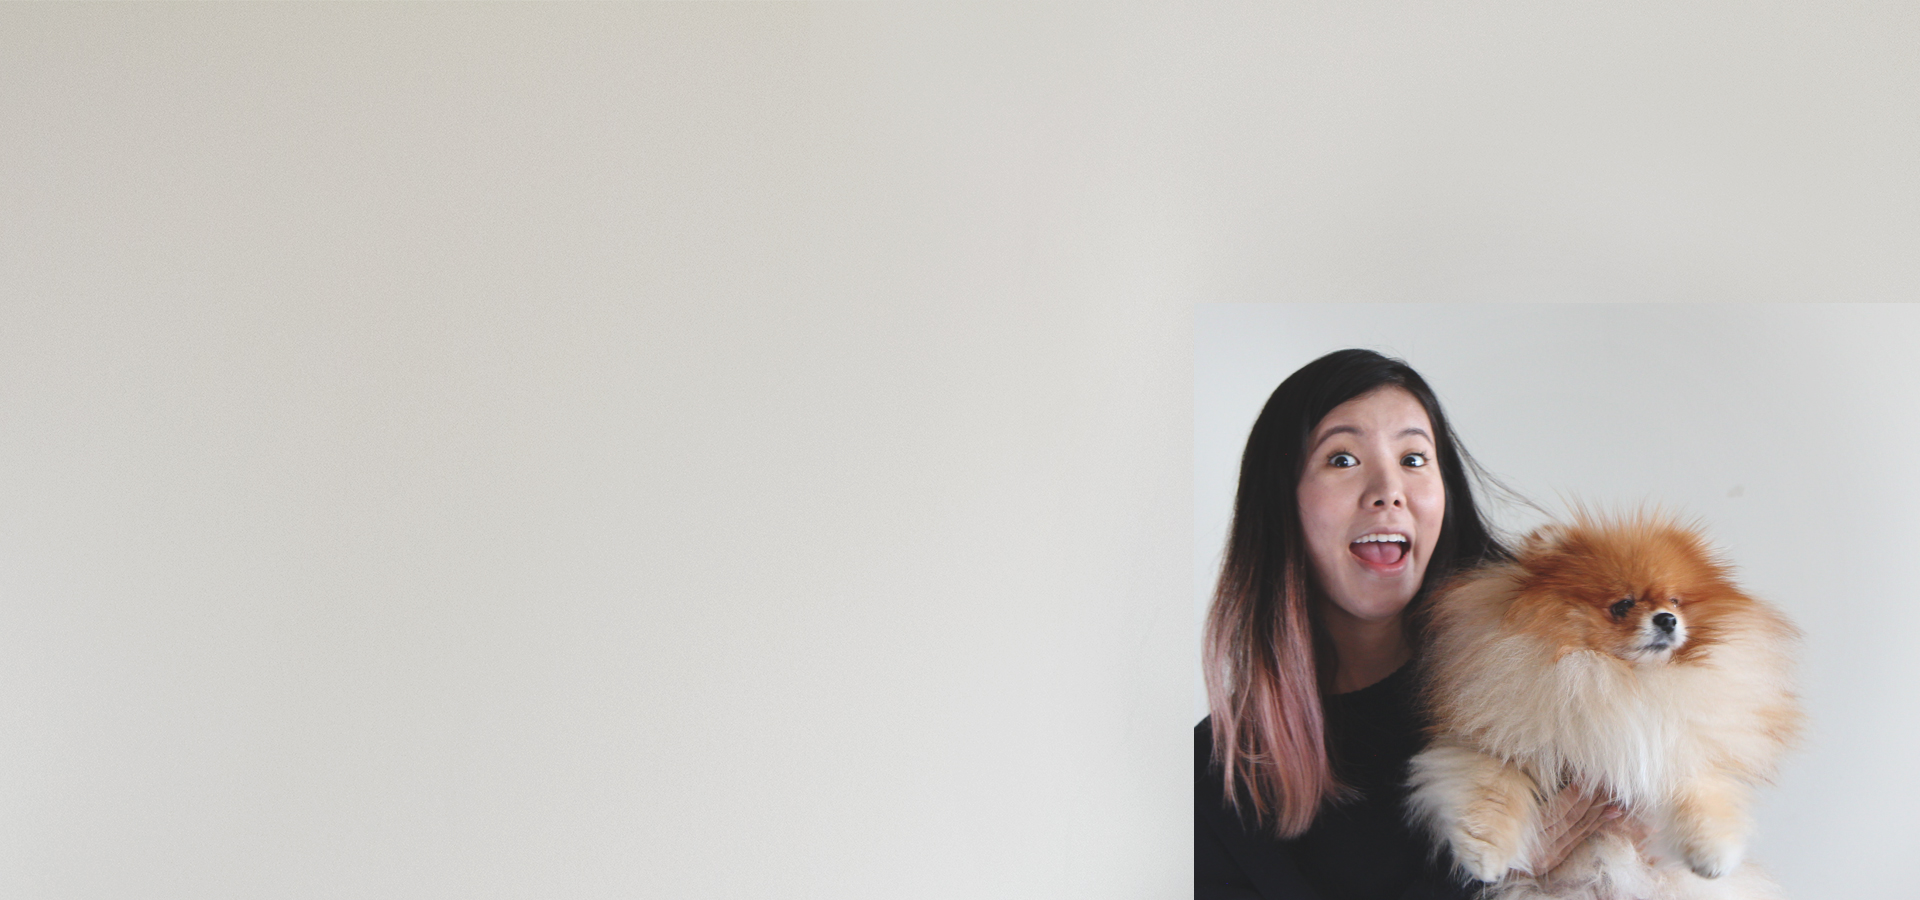
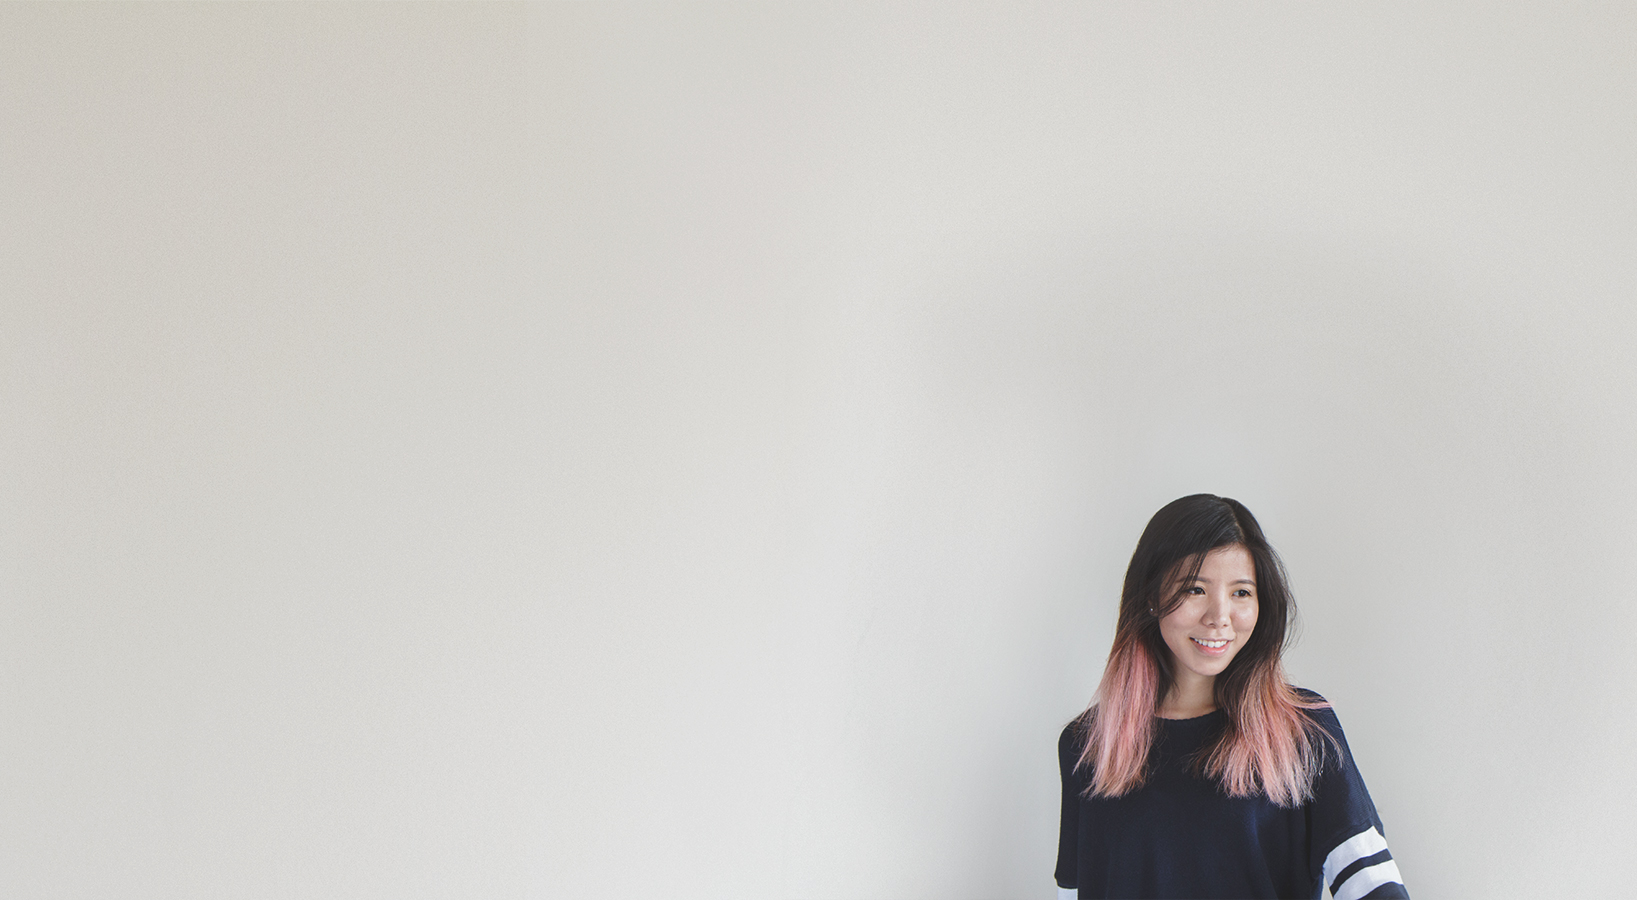
responsive

Changed region(s): [[0.5608, 0.3733, 0.9346, 1.0]]

diff --git a/dist/css/site.css b/dist/css/site.css
@@ -6897,15 +6897,30 @@ body {
   -moz-background-size: cover;
   -o-background-size: cover;
   background-size: cover;
-  min-height: 905px; }
+  min-height: 905px;
+  /*/ small /*/
+  /*/ medium /*/ }
+  @media screen and (max-width: 39.9375em) {
+    .hero {
+      background: url("../img/bg.jpg") no-repeat center center; } }
+  @media screen and (min-width: 40em) and (max-width: 63.9375em) {
+    .hero {
+      background: url("../img/bg2.jpg") no-repeat center center; } }
 
 .intro {
   /*/ small /*/
-  /*/ medium and up /*/ }
+  /*/ medium /*/
+  /*/ large /*/ }
   @media screen and (max-width: 39.9375em) {
     .intro {
       padding-top: 100px; } }
-  @media screen and (min-width: 39.94em) {
+  @media screen and (max-width: 39.9375em) {
+    .intro p {
+      padding: 0 15px; } }
+  @media screen and (min-width: 40em) and (max-width: 63.9375em) {
+    .intro {
+      padding-top: 150px; } }
+  @media screen and (min-width: 64em) {
     .intro {
       padding-top: 190px; } }
 
@@ -6968,7 +6983,7 @@ body {
   box-shadow: 0 1px 2px rgba(0, 0, 0, 0.1), 0 1px 1px rgba(0, 0, 0, 0.17);
   transition: all 0.2s linear; }
   .thumbnail:hover {
-    opacity: 0.8; }
+    opacity: 0.75; }
 
 .reveal-overlay {
   background-color: rgba(10, 10, 10, 0.8); }

diff --git a/src/scss/_custom.scss b/src/scss/_custom.scss
@@ -33,15 +33,32 @@ max-width: 100rem;
   -o-background-size: cover;
   background-size: cover;
   min-height:905px;
+  /*/ small /*/
+  @media screen and (max-width: 39.9375em) {
+    background: url('../img/bg.jpg') no-repeat center center;
+      }
+  /*/ medium /*/
+    @media screen and (min-width: 40em) and (max-width: 63.9375em) {
+    background: url('../img/bg2.jpg') no-repeat center center;
+     }
  }
 
  .intro {
-/*/ small /*/
-@media screen and (max-width: 39.9375em) {
-      padding-top:100px
+     /*/ small /*/
+   @media screen and (max-width: 39.9375em) {
+      padding-top:100px;
     }
-/*/ medium and up /*/
-  @media screen and (min-width: 39.94em) {
+    p{
+    @media screen and (max-width: 39.9375em) {
+         padding: 0 15px;
+    }
+  }
+      /*/ medium /*/
+    @media screen and (min-width: 40em) and (max-width: 63.9375em) {
+      padding-top: 150px;
+    }
+      /*/ large /*/
+    @media screen and (min-width: 64em) {
      padding-top: 190px;
    }
 }
@@ -117,7 +134,7 @@ margin-bottom:60px;
     border: none;
     box-shadow: 0 1px 2px rgba(0,0,0,0.10), 0 1px 1px rgba(0,0,0,0.17);
     transition: all 0.2s linear;
-    &:hover { opacity: 0.8 }
+    &:hover { opacity: 0.75 }
 }
 
 .reveal-overlay{

diff --git a/index.html b/index.html
@@ -28,7 +28,7 @@
         </nav>
       </div>
   </div>
-        <div class="intro row column small-12 medium-8 large-4 ">
+        <div class="intro row column small-12 medium-6 large-5 ">
          <div id="logo">
            <img src='/dist/img/logo.png' style="width:200px;height:70px;"/>
         </div>
